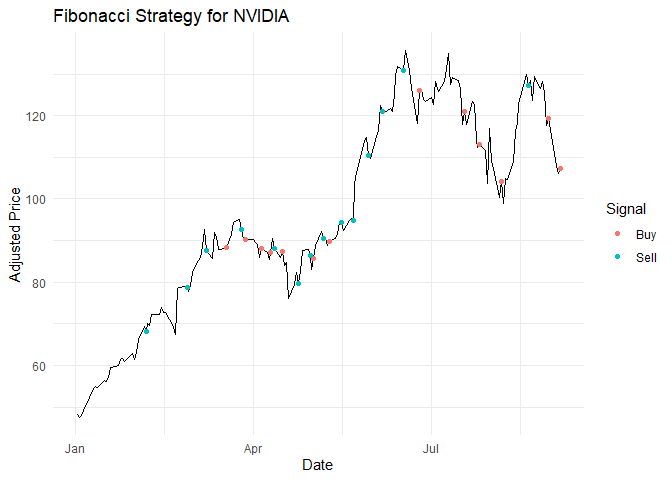
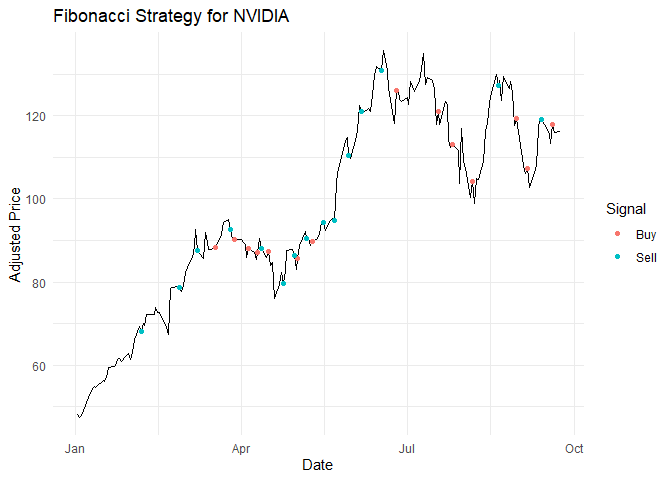
add moving_average_strategy

diff --git a/README.md b/README.md
@@ -51,12 +51,12 @@ tail(NVDA)
 #> # A tibble: 6 × 9
 #>   symbol date        open  high   low close    volume adjusted signals
 #>   <chr>  <date>     <dbl> <dbl> <dbl> <dbl>     <dbl>    <dbl>   <dbl>
-#> 1 NVDA   2024-08-28  128.  128.  123.  126. 448101100     126.       0
-#> 2 NVDA   2024-08-29  121.  124.  117.  118. 453023300     118.       0
-#> 3 NVDA   2024-08-30  120.  122.  117.  119. 333751600     119.       1
-#> 4 NVDA   2024-09-03  116.  116.  107.  108  474040800     108        0
-#> 5 NVDA   2024-09-04  105.  113.  104.  106. 372470300     106.       0
-#> 6 NVDA   2024-09-05  105.  110.  105.  107. 305774900     107.       1
+#> 1 NVDA   2024-09-16  117.  118.  114.  117. 248772300     117.       0
+#> 2 NVDA   2024-09-17  118.  119.  115.  116. 231925900     116.       0
+#> 3 NVDA   2024-09-18  116.  118.  113.  113. 310318900     113.       0
+#> 4 NVDA   2024-09-19  117.  120.  117.  118. 293506400     118.       1
+#> 5 NVDA   2024-09-20  117.  119.  115.  116  382462400     116        0
+#> 6 NVDA   2024-09-23  117.  117.  115.  116. 205808500     116.       0
 
 # Plot the closing prices and trading signals
 ggplot(NVDA, aes(x = date, y = adjusted)) +
@@ -101,12 +101,12 @@ tail(NVDA_strategy)
 #> # A tibble: 6 × 11
 #>   symbol date        open  high   low close    volume adjusted short_ma long_ma
 #>   <chr>  <date>     <dbl> <dbl> <dbl> <dbl>     <dbl>    <dbl>    <dbl>   <dbl>
-#> 1 NVDA   2024-08-28  128.  128.  123.  126. 448101100     126.     117.    116.
-#> 2 NVDA   2024-08-29  121.  124.  117.  118. 453023300     118.     117.    116.
-#> 3 NVDA   2024-08-30  120.  122.  117.  119. 333751600     119.     118.    116.
-#> 4 NVDA   2024-09-03  116.  116.  107.  108  474040800     108      118.    116.
-#> 5 NVDA   2024-09-04  105.  113.  104.  106. 372470300     106.     118.    117.
-#> 6 NVDA   2024-09-05  105.  110.  105.  107. 305774900     107.     119.    117.
+#> 1 NVDA   2024-09-16  117.  118.  114.  117. 248772300     117.     118.    119.
+#> 2 NVDA   2024-09-17  118.  119.  115.  116. 231925900     116.     118.    119.
+#> 3 NVDA   2024-09-18  116.  118.  113.  113. 310318900     113.     117.    119.
+#> 4 NVDA   2024-09-19  117.  120.  117.  118. 293506400     118.     116.    119.
+#> 5 NVDA   2024-09-20  117.  119.  115.  116  382462400     116      116.    119.
+#> 6 NVDA   2024-09-23  117.  117.  115.  116. 205808500     116.     115.    119.
 #> # ℹ 1 more variable: signal <chr>
 
 # Create a data frame for buy/sell points with colors
@@ -136,3 +136,68 @@ ggplot(NVDA_strategy, aes(x = date, y = adjusted)) +
 ```
 
 <img src="man/figures/README-momentum-strategy-1.png" width="100%" />
+
+## Strategy 3: Moving Average Crossover Strategy
+
+The moving average crossover strategy is a trend-following strategy that
+aims to capture gains in a financial instrument by buying when a
+short-term moving average crosses above a long-term moving average and
+selling when the short-term moving average crosses below the long-term
+moving average. The strategy is based on the idea that assets that have
+performed well in the past will continue to perform well in the future.
+
+``` r
+source("moving_average_strategy.R")
+
+# Define the stocks
+symbols <- c("AAPL", "MSFT", "NVDA", "F", "GM", "TSLA") 
+
+# Download historical data (replace with your preferred source if needed)
+start_date <- "2020-01-01"
+end_date <- "2023-11-24" 
+data <- tq_get(symbols,
+               from = start_date,
+               to = end_date,
+               get = "stock.prices")
+
+# Plotting for AAPL as an example
+ggplot(data_with_signals, aes(x = date, y = adjusted)) +
+  facet_wrap(~symbol, scales = "free_y") +
+  geom_line() +
+  geom_line(aes(y = short_ma), color = "blue") +
+  geom_line(aes(y = long_ma), color = "red") +
+  labs(title = "Moving Average Trading Strategy for: AAPL, MSFT, NVDA, F, GM, TSLA",
+       x = "Date",
+       y = "Adjusted Price") +
+  theme_minimal() 
+```
+
+<img src="man/figures/README-moving-average-strategy-1.png" width="100%" />
+
+``` r
+
+# Apply the strategy
+short_window <- 20
+long_window <- 50 
+data_with_signals <- data |>
+  calculate_ma_strategy(short_window, long_window)
+
+first_signals <- data_with_signals |>
+  get_first_signals()
+
+ggplot(data_with_signals, aes(x = date, y = adjusted)) +
+  facet_wrap(~symbol, scales = "free_y") +
+  geom_line() +
+  geom_line(aes(y = short_ma), color = "blue") +
+  geom_line(aes(y = long_ma), color = "red") +
+  geom_point(data = first_signals %>% filter(signal == "buy"), 
+             color = "green", size = 3) +
+  geom_point(data = first_signals %>% filter(signal == "sell"), 
+             color = "red", size = 3) +
+  labs(title = "Moving Average Trading Strategy for: AAPL, MSFT, NVDA, F, GM",
+       x = "Date",
+       y = "Adjusted Price") +
+  theme_minimal()
+```
+
+<img src="man/figures/README-moving-average-strategy-2.png" width="100%" />
